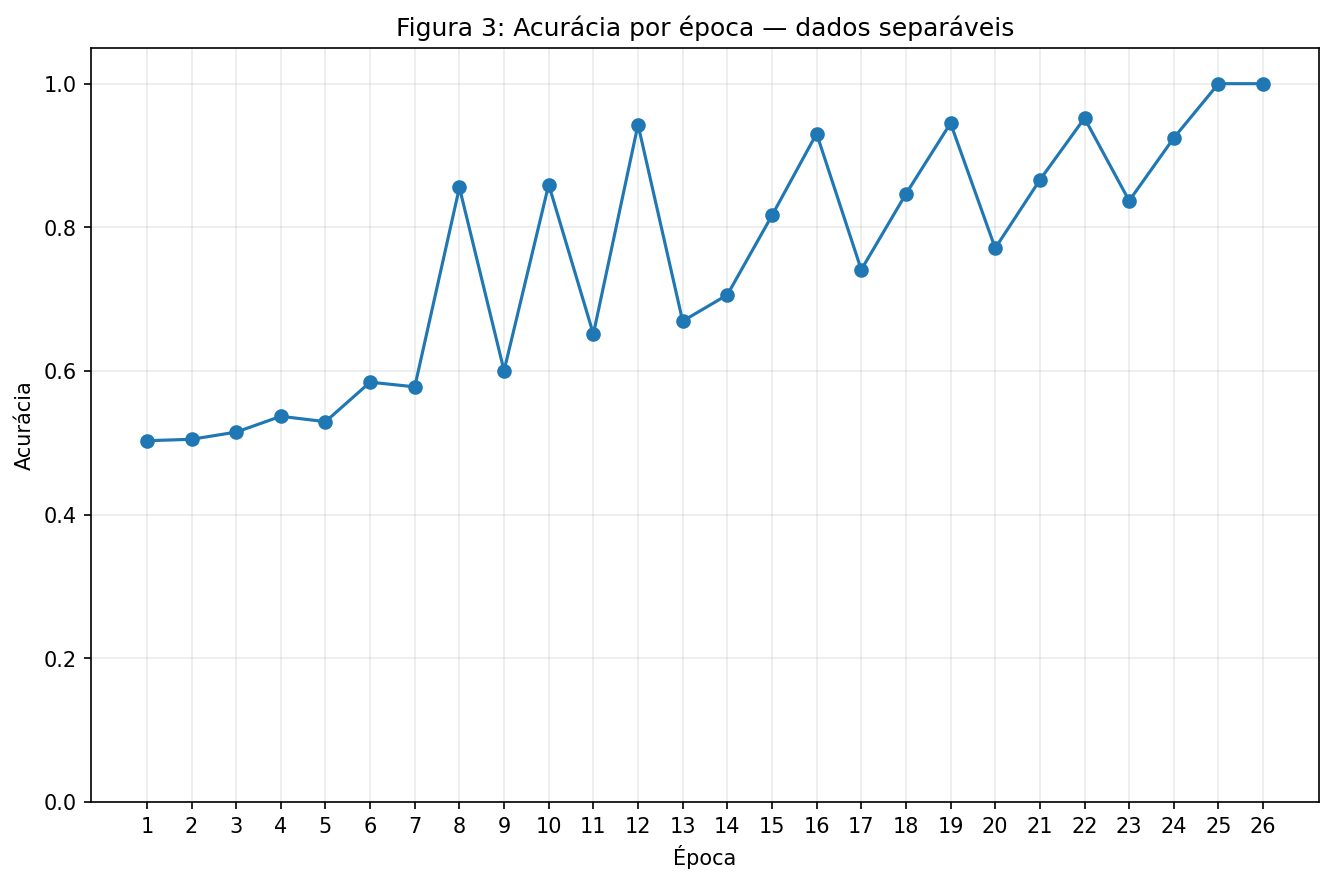
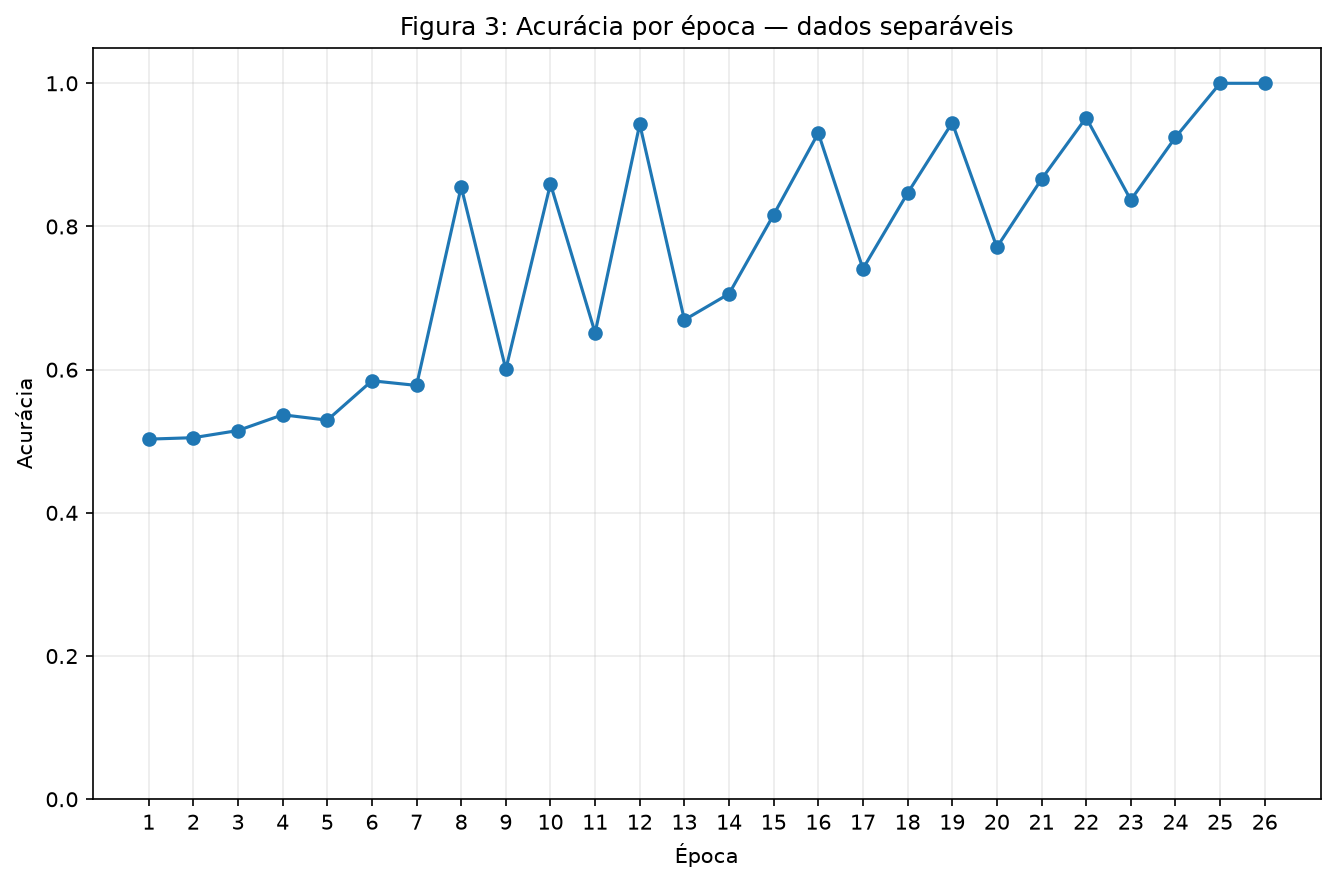
ajuste ex perceptron

diff --git a/docs/exercises/perceptron/code/ex1c.py b/docs/exercises/perceptron/code/ex1c.py
@@ -1,3 +1,7 @@
+from perceptron_shared import np, plt, FIGURES, prepare_sep, plot_boundary
+from ex1b import train_perceptron, predict_perceptron
+rng, X_sep, y_sep = prepare_sep()
+
 w_initial_sep = rng.normal(0, 0.01, size=2)
 b_initial_sep = 0.0
 
@@ -26,6 +30,7 @@ def plot_boundary(ax, w, b, x_limits, label, linestyle="-"):
         ax.axvline(-b / w[0], linestyle=linestyle, linewidth=2, label=label)
 
 
+# Figura 2
 pred_sep = predict_perceptron(X_sep, result_sep["w"], result_sep["b"])
 wrong_sep = pred_sep != y_sep
 
@@ -51,6 +56,45 @@ ax.set_xlabel("$x_1$")
 ax.set_ylabel("$x_2$")
 ax.legend()
 plt.tight_layout()
+plt.savefig(FIGURES / "fig2.png", dpi=150, bbox_inches="tight")
 plt.show()
 
 print("Pontos mal classificados:", wrong_sep.sum())
+
+# Figura 3
+epochs_sep = np.arange(1, result_sep["epochs"] + 1)
+
+plt.figure()
+plt.plot(epochs_sep, result_sep["accuracy_history"], marker="o")
+plt.title("Figura 3: Acurácia por época — dados separáveis")
+plt.xlabel("Época")
+plt.ylabel("Acurácia")
+plt.ylim(0, 1.05)
+plt.xticks(epochs_sep)
+plt.tight_layout()
+plt.savefig(FIGURES / "fig3.png", dpi=150, bbox_inches="tight")
+plt.show()
+
+result_sep_eta1 = train_perceptron(
+    X_sep, y_sep,
+    w_initial=w_initial_sep,
+    b_initial=b_initial_sep,
+    eta=1.0,
+    max_epochs=100
+)
+
+direction_eta001 = result_sep["w"] / np.linalg.norm(result_sep["w"])
+direction_eta1 = result_sep_eta1["w"] / np.linalg.norm(result_sep_eta1["w"])
+
+print("eta = 0.01")
+print("  épocas:", result_sep["epochs"])
+print(f"  acurácia: {100*result_sep['accuracy']:.2f}%")
+print("  w:", result_sep["w"])
+print("  w/||w||:", direction_eta001)
+
+print("\neta = 1.0")
+print("  épocas:", result_sep_eta1["epochs"])
+print(f"  acurácia: {100*result_sep_eta1['accuracy']:.2f}%")
+print("  w:", result_sep_eta1["w"])
+print("  w/||w||:", direction_eta1)
+

diff --git a/docs/exercises/perceptron/code/perceptron_shared.py b/docs/exercises/perceptron/code/perceptron_shared.py
@@ -1,0 +1,34 @@
+import numpy as np
+import matplotlib.pyplot as plt
+from pathlib import Path
+
+FIGURES = Path(__file__).resolve().parent.parent / 'figures'
+FIGURES.mkdir(parents=True, exist_ok=True)
+plt.rcParams.update({'figure.figsize': (9,6), 'axes.grid': True, 'grid.alpha': .25})
+
+def prepare_sep():
+    rng = np.random.default_rng(42)
+    mu0, mu1 = np.array([1.5,1.5]), np.array([5.,5.])
+    cov = np.diag([.5,.5])
+    X0 = rng.multivariate_normal(mu0,cov,size=1000)
+    X1 = rng.multivariate_normal(mu1,cov,size=1000)
+    X = np.vstack((X0,X1))
+    y = np.concatenate((np.zeros(1000,dtype=int),np.ones(1000,dtype=int)))
+    return rng,X,y
+
+def prepare_overlap():
+    rng, X_sep, y_sep = prepare_sep()
+    w_initial_sep = rng.normal(0,.01,size=2)
+    cov = np.diag([1.5,1.5])
+    X0 = rng.multivariate_normal([3.,3.],cov,size=1000)
+    X1 = rng.multivariate_normal([4.,4.],cov,size=1000)
+    X = np.vstack((X0,X1))
+    y = np.concatenate((np.zeros(1000,dtype=int),np.ones(1000,dtype=int)))
+    return rng,X,y
+
+def plot_boundary(ax,w,b,x_limits,label,linestyle='-'):
+    x1 = np.linspace(*x_limits,300)
+    if abs(w[1]) > 1e-12:
+        ax.plot(x1,-(w[0]*x1+b)/w[1],linestyle=linestyle,linewidth=2,label=label)
+    elif abs(w[0]) > 1e-12:
+        ax.axvline(-b/w[0],linestyle=linestyle,linewidth=2,label=label)

diff --git a/docs/exercises/perceptron/code/ex2a.py b/docs/exercises/perceptron/code/ex2a.py
@@ -1,17 +1,18 @@
-mu_overlap_0 = np.array([3.0, 3.0])
-mu_overlap_1 = np.array([4.0, 4.0])
-cov_overlap = np.array([[1.5, 0.0],
-                        [0.0, 1.5]])
+from perceptron_shared import np, plt, FIGURES, prepare_overlap
+rng, X_overlap, y_overlap = prepare_overlap()
 
-X2_0 = rng.multivariate_normal(mu_overlap_0, cov_overlap, size=1000)
-X2_1 = rng.multivariate_normal(mu_overlap_1, cov_overlap, size=1000)
+# Figura 4
+plt.figure()
+plt.scatter(X_overlap[y_overlap == 0, 0], X_overlap[y_overlap == 0, 1],
+            alpha=0.5, s=18, label="Classe 0")
+plt.scatter(X_overlap[y_overlap == 1, 0], X_overlap[y_overlap == 1, 1],
+            alpha=0.5, s=18, label="Classe 1")
+plt.title("Figura 4: Dados sobrepostos")
+plt.xlabel("$x_1$")
+plt.ylabel("$x_2$")
+plt.legend()
+plt.tight_layout()
+plt.savefig(FIGURES / "fig4.png", dpi=150, bbox_inches="tight")
+plt.show()
 
-X_overlap = np.vstack([X2_0, X2_1])
-y_overlap = np.concatenate([
-    np.zeros(1000, dtype=int),
-    np.ones(1000, dtype=int)
-])
-
-print("Shape de X:", X_overlap.shape)
-print("Classe 0:", np.sum(y_overlap == 0), "amostras")
-print("Classe 1:", np.sum(y_overlap == 1), "amostras")
+print("Shape de X:",X_overlap.shape)

diff --git a/docs/exercises/perceptron/code/ex1a.py b/docs/exercises/perceptron/code/ex1a.py
@@ -1,17 +1,18 @@
-mu0 = np.array([1.5, 1.5])
-mu1 = np.array([5.0, 5.0])
-cov_sep = np.array([[0.5, 0.0],
-                    [0.0, 0.5]])
+from perceptron_shared import np, plt, FIGURES, prepare_sep
+rng, X_sep, y_sep = prepare_sep()
 
-X0 = rng.multivariate_normal(mu0, cov_sep, size=1000)
-X1 = rng.multivariate_normal(mu1, cov_sep, size=1000)
+# Figura 1
+plt.figure()
+plt.scatter(X_sep[y_sep == 0, 0], X_sep[y_sep == 0, 1],
+            alpha=0.55, s=18, label="Classe 0")
+plt.scatter(X_sep[y_sep == 1, 0], X_sep[y_sep == 1, 1],
+            alpha=0.55, s=18, label="Classe 1")
+plt.title("Figura 1: Dados linearmente separáveis")
+plt.xlabel("$x_1$")
+plt.ylabel("$x_2$")
+plt.legend()
+plt.tight_layout()
+plt.savefig(FIGURES / "fig1.png", dpi=150, bbox_inches="tight")
+plt.show()
 
-X_sep = np.vstack([X0, X1])
-y_sep = np.concatenate([
-    np.zeros(1000, dtype=int),
-    np.ones(1000, dtype=int)
-])
-
-print("Shape de X:", X_sep.shape)
-print("Classe 0:", np.sum(y_sep == 0), "amostras")
-print("Classe 1:", np.sum(y_sep == 1), "amostras")
+print("Shape de X:",X_sep.shape)

diff --git a/docs/exercises/perceptron/code/ex2c.py b/docs/exercises/perceptron/code/ex2c.py
@@ -1,3 +1,10 @@
+from perceptron_shared import np, plt, FIGURES, prepare_overlap, plot_boundary
+from ex1b import train_perceptron, predict_perceptron
+rng, X_overlap, y_overlap = prepare_overlap()
+w_initial_overlap = rng.normal(0,.01,size=2)
+result_overlap = train_perceptron(X_overlap,y_overlap,w_initial_overlap,eta=.01,max_epochs=100,use_pocket=True)
+
+# Figura 5
 pred_final = predict_perceptron(
     X_overlap, result_overlap["w"], result_overlap["b"]
 )
@@ -37,8 +44,10 @@ ax.set_xlabel("$x_1$")
 ax.set_ylabel("$x_2$")
 ax.legend(bbox_to_anchor=(1.02, 1), loc="upper left")
 plt.tight_layout()
+plt.savefig(FIGURES / "fig5.png", dpi=150, bbox_inches="tight")
 plt.show()
 
+# Figura 6
 epochs_overlap = np.arange(1, result_overlap["epochs"] + 1)
 
 plt.figure()
@@ -52,4 +61,6 @@ plt.ylabel("Acurácia")
 plt.ylim(0, 1.0)
 plt.legend()
 plt.tight_layout()
+plt.savefig(FIGURES / "fig6.png", dpi=150, bbox_inches="tight")
 plt.show()
+

diff --git a/docs/exercises/perceptron/code/ex1b.py b/docs/exercises/perceptron/code/ex1b.py
@@ -1,3 +1,5 @@
+import numpy as np
+
 def predict_perceptron(X, w, b):
     return (X @ w + b >= 0).astype(int)
 
@@ -66,3 +68,10 @@ def train_perceptron(X, y, w_initial, b_initial=0.0,
         "pocket_epoch": best_epoch,
         "pocket_history": np.array(pocket_history)
     }
+
+if __name__ == "__main__":
+    from perceptron_shared import prepare_sep
+    rng, X, y = prepare_sep()
+    w = rng.normal(0,.01,size=2)
+    result = train_perceptron(X,y,w)
+    print("w:",result["w"],"b:",result["b"],"épocas:",result["epochs"],"acurácia:",result["accuracy"])

diff --git a/docs/exercises/perceptron/code/ex2b.py b/docs/exercises/perceptron/code/ex2b.py
@@ -1,3 +1,7 @@
+from perceptron_shared import np, prepare_overlap
+from ex1b import train_perceptron
+rng, X_overlap, y_overlap = prepare_overlap()
+
 w_initial_overlap = rng.normal(0, 0.01, size=2)
 
 result_overlap = train_perceptron(
@@ -19,3 +23,4 @@ print("w pocket:", result_overlap["pocket_w"])
 print("b pocket:", result_overlap["pocket_b"])
 print(f"Acurácia pocket: {result_overlap['pocket_accuracy']:.4f} ({100*result_overlap['pocket_accuracy']:.2f}%)")
 print("Época do melhor pocket:", result_overlap["pocket_epoch"])
+

diff --git a/docs/exercises/perceptron/index.md b/docs/exercises/perceptron/index.md
@@ -16,21 +16,33 @@ A Figura 1 mostra duas nuvens bem separadas. Visualmente já existe uma faixa va
 ```
 
 ### B
-O perceptron foi implementado do zero. A predição utiliza a função degrau, retornando 1 quando $\mathbf{w}\cdot\mathbf{x}+b \geq 0$ e 0 caso contrário. Durante o treinamento, o erro é calculado por $y-\hat{y}$ e os parâmetros são atualizados somente quando ocorre uma classificação incorreta:
+
+O perceptron foi implementado do zero, sem utilizar modelos prontos de bibliotecas. A predição utiliza a função degrau, retornando 1 quando $\mathbf{w}\cdot\mathbf{x}+b \geq 0$ e 0 caso contrário. Durante o treinamento, o erro é calculado por $y-\hat{y}$ e os parâmetros são atualizados somente quando ocorre uma classificação incorreta:
 
 $$
 \mathbf{w} \leftarrow \mathbf{w} + \eta(y-\hat{y})\mathbf{x}
 $$
 
 $$
-b \leftarrow b + \eta(y-\hat{y}).
+b \leftarrow b + \eta(y-\hat{y})
 $$
 
+Os pesos são inicializados aleatoriamente com `rng.normal(0, 0.01, size=2)` e o bias inicial é igual a zero. A taxa de aprendizado utilizada é $\eta=0.01$.
+
 O treinamento registra a acurácia e o número de atualizações após cada época. A condição de parada ocorre quando uma passagem completa pelo dataset não produz nenhuma atualização ou quando o limite de 100 épocas é atingido. A mesma implementação também permite guardar os melhores pesos encontrados durante o treino, recurso utilizado no Exercício 2.
+
+**Implementação do perceptron:**
+
+```python
+--8<-- "docs/exercises/perceptron/code/perceptron_shared.py"
+```
+
+**Execução do Exercício 1B:**
 
 ```python
 --8<-- "docs/exercises/perceptron/code/ex1b.py"
 ```
+
 
 ### C
 Para $\eta=0.01$, os pesos foram inicializados com `rng.normal(0, 0.01, size=2)` e o bias inicial foi 0. A execução produziu:
